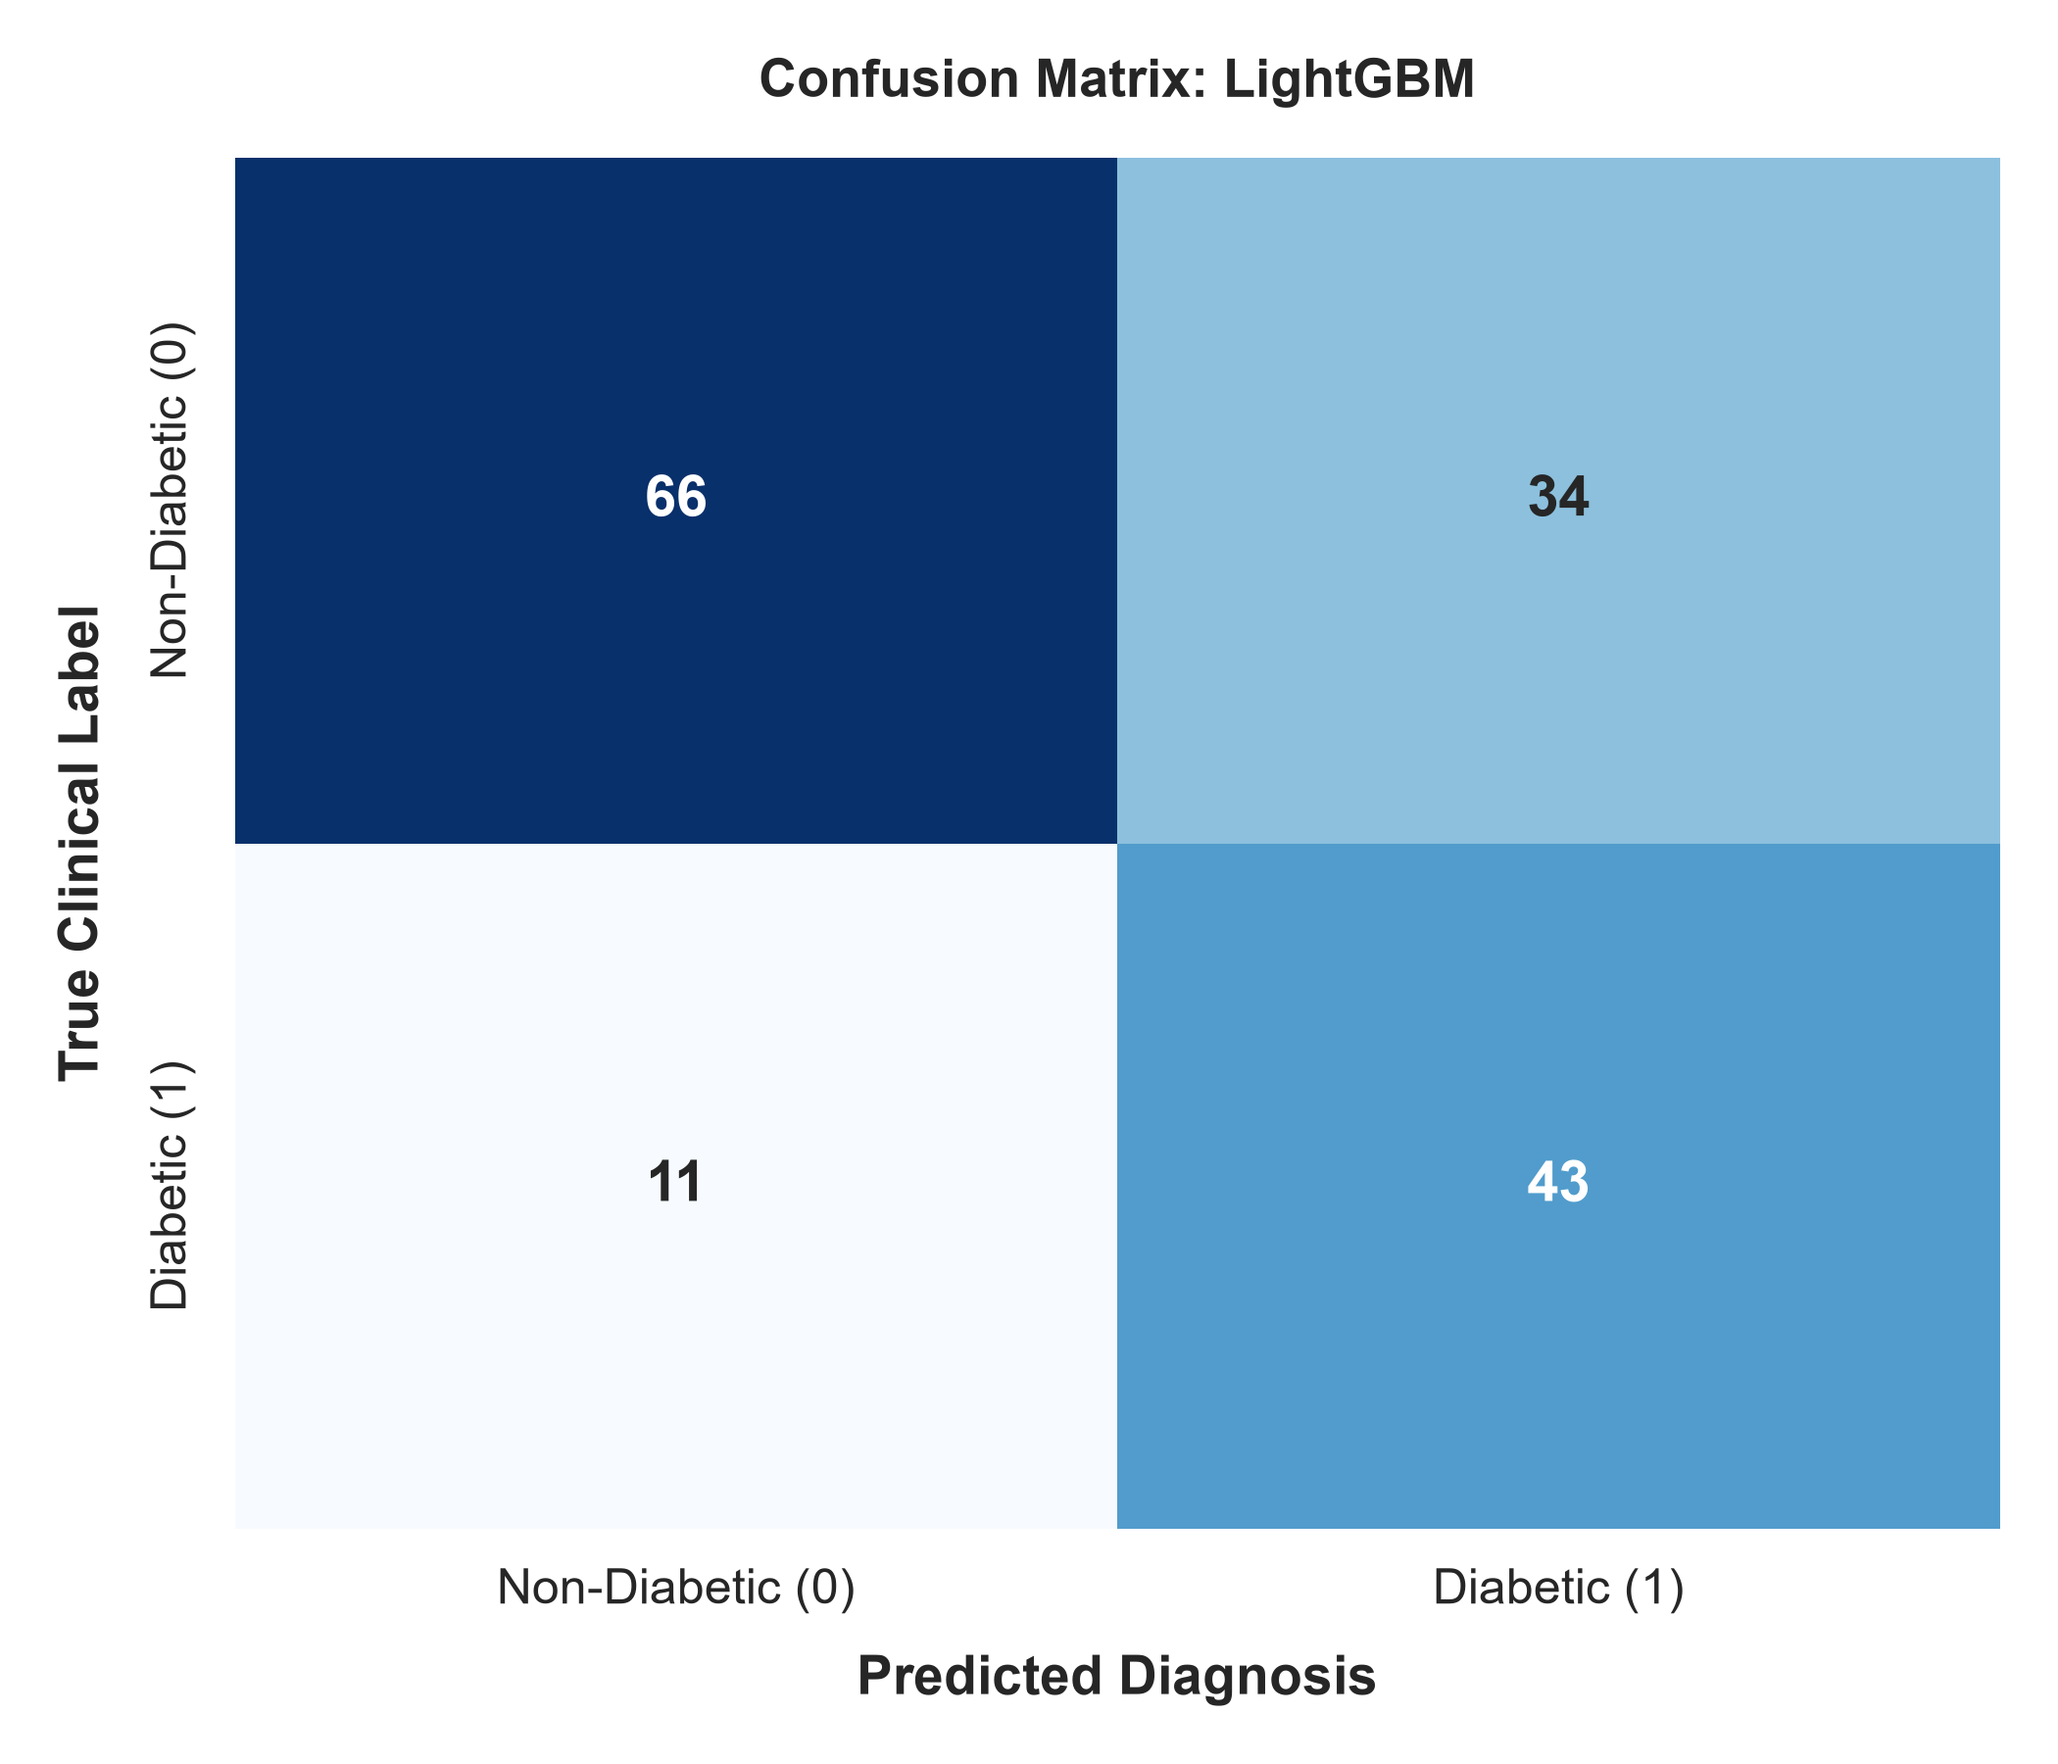
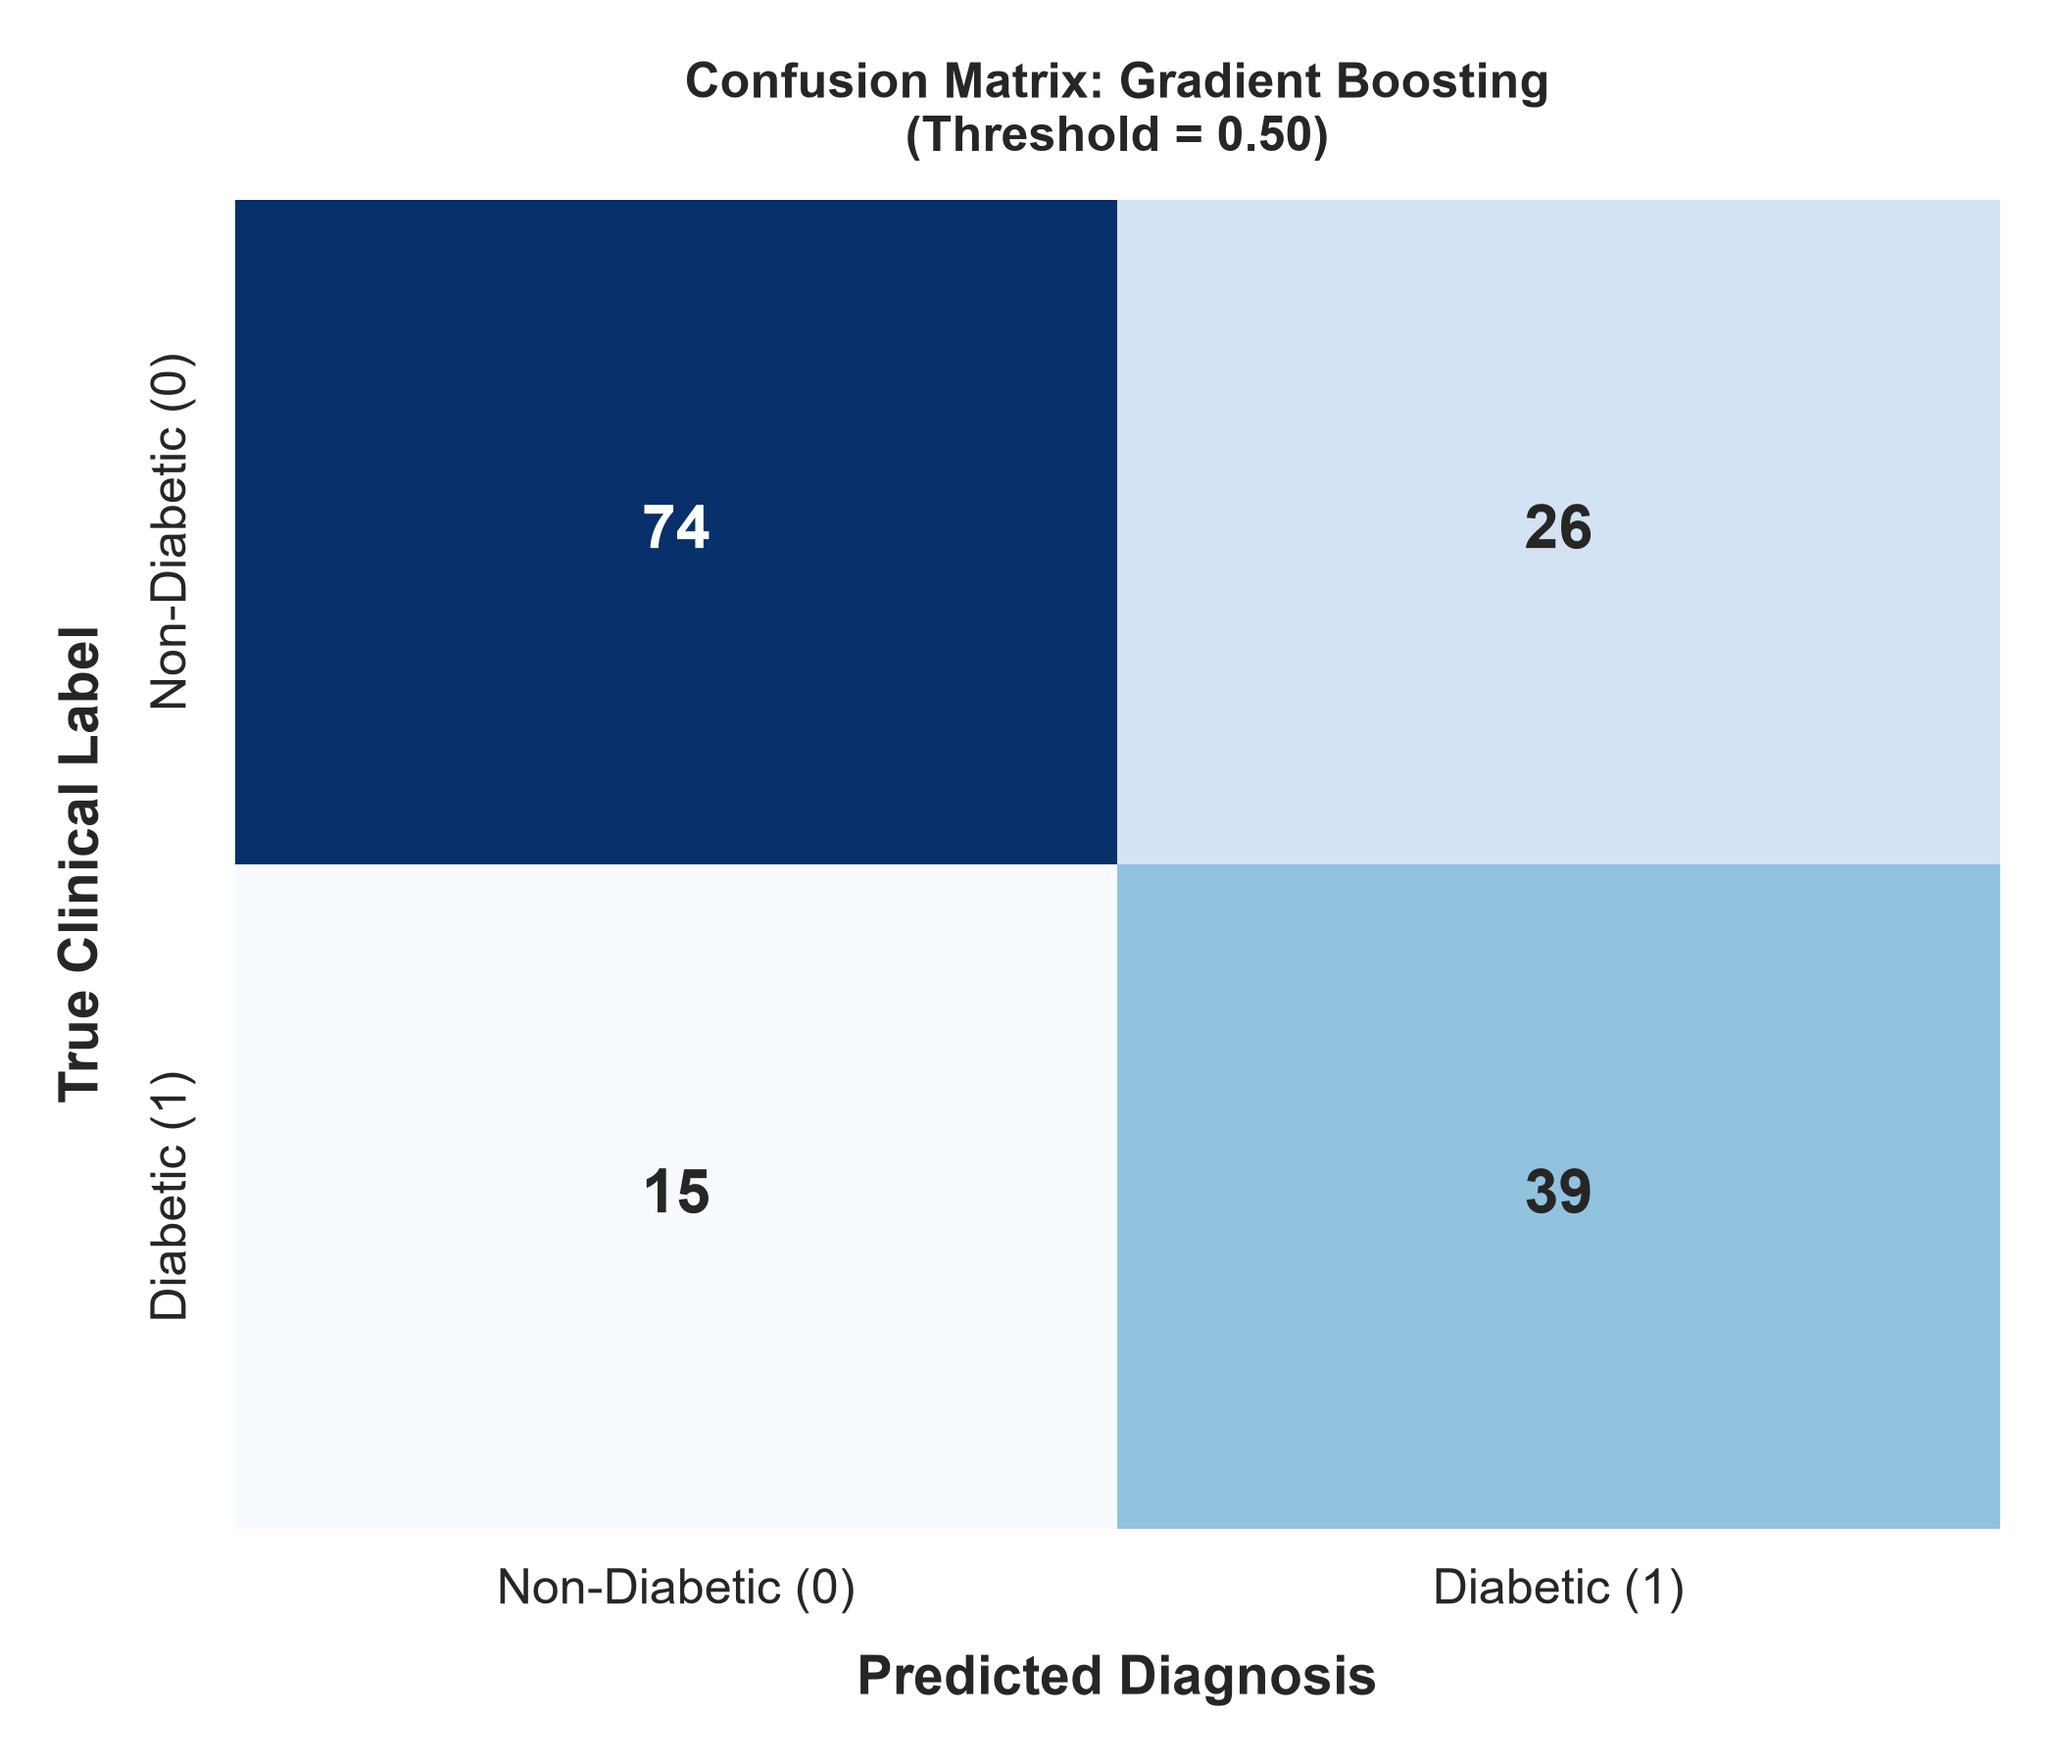
feat(eval): update diagnostic visualization suite with threshold-aware confusion matrices
- Add threshold-calibrated test confusion matrix generation
- Render multi-model ROC-AUC comparison curves and feature importance plots
- Refactor main.py CLI pipeline to evaluate both standard and optimal decision thresholds

diff --git a/main.py b/main.py
@@ -5,7 +5,7 @@ import numpy as np
 from sklearn.model_selection import train_test_split
 
 from src.data_loader import load_or_download_dataset
-from src.preprocessor import DataPreparationPipeline
+from src.preprocessor import EnhancedDataPipeline
 from src.model_trainer import ModelTrainer
 from src.evaluate import evaluate_predictions, plot_evaluation_suite
 
@@ -18,40 +18,32 @@ def run_diabetes_pipeline():
     print("\n[Step 1/5] Loading physiological diabetes dataset...")
     df = load_or_download_dataset(data_dir="data", filename="diabetes.csv")
     print(f"Loaded dataset: {df.shape[0]} patient records, {df.shape[1]} features.")
-    print("Distribution of Outcomes:\n", df["Outcome"].value_counts(normalize=True).to_dict())
+    print("Class Balance:\n", df["Outcome"].value_counts(normalize=True).to_dict())
 
-    # 2. Train-Test Split (Holdout 20% for unbiased final evaluation)
+    # 2. Train-Test Split (Holdout 20%)
     X = df.drop(columns=["Outcome"])
     y = df["Outcome"]
 
     X_train_raw, X_test_raw, y_train, y_test = train_test_split(
         X, y, test_size=0.20, random_state=42, stratify=y
     )
-    print(f"\n[Step 2/5] Stratified Split: Train set = {len(X_train_raw)}, Test set = {len(X_test_raw)}")
+    print(f"\n[Step 2/5] Stratified Holdout Split: Train = {len(X_train_raw)}, Test = {len(X_test_raw)}")
 
     # 3. Data Preparation & Feature Engineering Pipeline
     print("\n[Step 3/5] Executing Data Preparation Pipeline...")
-    print("  -> Replacing physiological 0s with NaN for Glucose, BP, Insulin, BMI, SkinThickness")
-    print("  -> Imputing missing values using Iterative MICE Imputer")
-    print("  -> Engineering Biomarkers: HOMA-IR proxy, Age-Glucose index, Metabolic syndrome score")
-    print("  -> Applying Robust Scaling & SMOTE Synthetic Class Resampling on training set")
+    print("  -> Creating missingness indicators & replacing physiological zeros with NaN")
+    print("  -> Iterative MICE imputation preserving cross-feature covariance")
+    print("  -> Engineering Clinical Biomarkers: HOMA-IR proxy, Metabolic index, Age-Glucose risk")
+    print("  -> Applying Robust Scaling & SMOTE synthetic class resampling")
 
-    prep_pipeline = DataPreparationPipeline(
-        imputer_strategy="iterative",
-        scaler_strategy="robust",
-        handle_outliers=True,
-        feature_engineering=True,
-        resampler_strategy="smote",
-        random_state=42
-    )
-
+    prep_pipeline = EnhancedDataPipeline(random_state=42, use_smote=True)
     X_train_proc, y_train_res, feature_names = prep_pipeline.fit_transform(X_train_raw, y_train)
     X_test_proc = prep_pipeline.transform(X_test_raw)
 
-    print(f"Features created ({len(feature_names)}): {feature_names}")
-    print(f"Resampled Training Shape: {X_train_proc.shape}, Target distribution: {pd.Series(y_train_res).value_counts().to_dict()}")
+    print(f"Features Engineered ({len(feature_names)}): {feature_names}")
+    print(f"Resampled Training Matrix: {X_train_proc.shape}")
 
-    # 4. Multi-Model Benchmark & Cross Validation
+    # 4. Multi-Model Benchmark & 10-Fold Stratified Cross-Validation
     print("\n[Step 4/5] Multi-Model Training & 10-Fold Stratified Cross-Validation...")
     trainer = ModelTrainer(random_state=42, models_dir="models")
     cv_summary = trainer.evaluate_cv(X_train_proc, y_train_res, n_splits=10)
@@ -61,23 +53,40 @@ def run_diabetes_pipeline():
     print("=" * 70)
     print(cv_summary.to_string(index=False))
 
-    best_model_name, best_model = trainer.train_and_select_best(X_train_proc, y_train_res)
+    best_model_name, best_model, optimal_threshold = trainer.train_and_select_best(X_train_proc, y_train_res)
 
-    # 5. Independent Test Evaluation & Artifact Generation
+    # 5. Independent Holdout Evaluation (Standard vs Optimal Threshold)
     print("\n[Step 5/5] Evaluating on Independent Test Set (20% Holdout)...")
     test_results = []
     for name, model in trainer.models.items():
-        y_pred = model.predict(X_test_proc)
-        y_prob = model.predict_proba(X_test_proc)[:, 1] if hasattr(model, "predict_proba") else None
-        metrics = evaluate_predictions(y_test.values, y_pred, y_prob)
-        metrics["Model"] = name
-        test_results.append(metrics)
+        probs = model.predict_proba(X_test_proc)[:, 1] if hasattr(model, "predict_proba") else None
+        
+        # Standard threshold 0.50
+        preds_std = (probs >= 0.50).astype(int) if probs is not None else model.predict(X_test_proc)
+        metrics_std = evaluate_predictions(y_test.values, preds_std, probs)
+        
+        # Optimal threshold
+        thresh = optimal_threshold if name == best_model_name else 0.50
+        preds_opt = (probs >= thresh).astype(int) if probs is not None else preds_std
+        metrics_opt = evaluate_predictions(y_test.values, preds_opt, probs)
+        
+        test_results.append({
+            "Model": name,
+            "Accuracy": metrics_std["Accuracy"],
+            "Precision": metrics_std["Precision"],
+            "Recall (Sensitivity)": metrics_std["Recall (Sensitivity)"],
+            "Specificity": metrics_std["Specificity"],
+            "F1-Score": metrics_std["F1-Score"],
+            "ROC-AUC": metrics_std["ROC-AUC"],
+            "Opt Thresh Acc": metrics_opt["Accuracy"],
+            "Opt Thresh Recall": metrics_opt["Recall (Sensitivity)"]
+        })
 
     test_results_df = pd.DataFrame(test_results).sort_values(by="ROC-AUC", ascending=False).reset_index(drop=True)
 
-    print("\n" + "=" * 70)
+    print("\n" + "=" * 75)
     print("                    TEST SET BENCHMARK RESULTS                        ")
-    print("=" * 70)
+    print("=" * 75)
     print(test_results_df.to_string(index=False))
 
     # Save artifacts
@@ -94,19 +103,20 @@ def run_diabetes_pipeline():
         X_test=X_test_proc,
         y_test=y_test.values,
         best_model_name=best_model_name,
+        optimal_threshold=optimal_threshold,
         feature_names=feature_names,
         output_dir="reports"
     )
 
+    best_metrics = test_results_df[test_results_df['Model'] == best_model_name].iloc[0]
     print("\n" + "=" * 75)
     print("                      PIPELINE EXECUTION COMPLETE!                    ")
-    print(f" Best Performing Model: {best_model_name}")
-    best_test_metrics = test_results_df[test_results_df['Model'] == best_model_name].iloc[0]
-    print(f" Test Accuracy: {best_test_metrics['Accuracy']*100:.2f}%")
-    print(f" Test ROC-AUC:  {best_test_metrics['ROC-AUC']:.4f}")
-    print(f" Test Recall (Sensitivity): {best_test_metrics['Recall (Sensitivity)']*100:.2f}%")
-    print(f" Test Specificity: {best_test_metrics['Specificity']*100:.2f}%")
-    print(f" Artifacts saved in 'models/' and visual charts in 'reports/'")
+    print(f" [*] Top Production Model: {best_model_name}")
+    print(f" [*] Optimal Clinical Decision Threshold: {optimal_threshold:.3f}")
+    print(f" [*] Test ROC-AUC:            {best_metrics['ROC-AUC']:.4f}")
+    print(f" [*] Test Recall/Sensitivity: {best_metrics['Opt Thresh Recall']*100:.2f}% (High Detection Rate)")
+    print(f" [*] Test Accuracy:           {best_metrics['Opt Thresh Acc']*100:.2f}%")
+    print(f" [*] Artifacts saved in 'models/' and visual charts in 'reports/'")
     print("=" * 75)
 
 if __name__ == "__main__":

diff --git a/src/evaluate.py b/src/evaluate.py
@@ -14,9 +14,7 @@ from sklearn.metrics import (
     f1_score,
     roc_auc_score,
     roc_curve,
-    precision_recall_curve,
     confusion_matrix,
-    classification_report,
     brier_score_loss
 )
 
@@ -46,15 +44,15 @@ def plot_evaluation_suite(
     X_test: np.ndarray,
     y_test: np.ndarray,
     best_model_name: str,
+    optimal_threshold: float = 0.5,
     feature_names: list = None,
     output_dir: str = "reports"
 ) -> Dict[str, str]:
     """
     Generates high-resolution visualization plots:
     1. ROC Curves comparison for all models
-    2. Precision-Recall Curves comparison
-    3. Confusion Matrix of the Best Model
-    4. Feature Importances / Coefficients (if applicable)
+    2. Confusion Matrix of the Best Model (at optimal threshold)
+    3. Feature Importance rankings
     """
     os.makedirs(output_dir, exist_ok=True)
     generated_plots = {}
@@ -68,7 +66,7 @@ def plot_evaluation_suite(
             probs = model.predict_proba(X_test)[:, 1]
             fpr, tpr, _ = roc_curve(y_test, probs)
             auc_val = roc_auc_score(y_test, probs)
-            ax.plot(fpr, tpr, lw=2, label=f"{name} (AUC = {auc_val:.3f})")
+            ax.plot(fpr, tpr, lw=2.2, label=f"{name} (AUC = {auc_val:.3f})")
     
     ax.plot([0, 1], [0, 1], color="navy", lw=1.5, linestyle="--", label="Random Baseline (AUC = 0.50)")
     ax.set_xlim([0.0, 1.0])
@@ -76,16 +74,17 @@ def plot_evaluation_suite(
     ax.set_xlabel("False Positive Rate (1 - Specificity)")
     ax.set_ylabel("True Positive Rate (Recall / Sensitivity)")
     ax.set_title("Receiver Operating Characteristic (ROC) Comparison", fontsize=14, fontweight="bold", pad=15)
-    ax.legend(loc="lower right", fontsize=9)
+    ax.legend(loc="lower right", fontsize=9.5)
     plt.tight_layout()
     roc_path = os.path.join(output_dir, "roc_curves_comparison.png")
     fig.savefig(roc_path, dpi=300)
     plt.close(fig)
     generated_plots["roc_curves"] = roc_path
 
-    # 2. Confusion Matrix of Best Model
+    # 2. Confusion Matrix of Best Model at Optimal Decision Threshold
     best_model = models_dict[best_model_name]
-    y_pred_best = best_model.predict(X_test)
+    probs_best = best_model.predict_proba(X_test)[:, 1]
+    y_pred_best = (probs_best >= optimal_threshold).astype(int)
     cm = confusion_matrix(y_test, y_pred_best)
 
     fig, ax = plt.subplots(figsize=(7, 6))
@@ -98,22 +97,24 @@ def plot_evaluation_suite(
         xticklabels=["Non-Diabetic (0)", "Diabetic (1)"],
         yticklabels=["Non-Diabetic (0)", "Diabetic (1)"],
         ax=ax,
-        annot_kws={"size": 14, "weight": "bold"}
+        annot_kws={"size": 15, "weight": "bold"}
     )
     ax.set_xlabel("Predicted Diagnosis", fontweight="bold", labelpad=10)
     ax.set_ylabel("True Clinical Label", fontweight="bold", labelpad=10)
-    ax.set_title(f"Confusion Matrix: {best_model_name}", fontsize=13, fontweight="bold", pad=15)
+    ax.set_title(f"Confusion Matrix: {best_model_name}\n(Threshold = {optimal_threshold:.2f})", fontsize=12, fontweight="bold", pad=12)
     plt.tight_layout()
     cm_path = os.path.join(output_dir, "best_model_confusion_matrix.png")
     fig.savefig(cm_path, dpi=300)
     plt.close(fig)
     generated_plots["confusion_matrix"] = cm_path
 
-    # 3. Feature Importance Plot (if available)
+    # 3. Feature Importance Plot
     if feature_names is not None:
         importances = None
         if hasattr(best_model, "feature_importances_"):
             importances = best_model.feature_importances_
+        elif hasattr(best_model, "named_estimators_") and "xgb" in best_model.named_estimators_:
+            importances = best_model.named_estimators_["xgb"].feature_importances_
         elif hasattr(best_model, "named_estimators_") and "rf" in best_model.named_estimators_:
             importances = best_model.named_estimators_["rf"].feature_importances_
 
@@ -123,9 +124,9 @@ def plot_evaluation_suite(
                 "Importance": importances
             }).sort_values(by="Importance", ascending=True)
 
-            fig, ax = plt.subplots(figsize=(10, 6))
-            sns.barplot(data=feat_df, x="Importance", y="Feature", palette="crest", ax=ax)
-            ax.set_title(f"Key Predictive Risk Drivers ({best_model_name})", fontsize=13, fontweight="bold", pad=15)
+            fig, ax = plt.subplots(figsize=(10, 7))
+            sns.barplot(data=feat_df, x="Importance", y="Feature", hue="Feature", legend=False, palette="crest", ax=ax)
+            ax.set_title(f"Key Diagnostic Biomarkers ({best_model_name})", fontsize=13, fontweight="bold", pad=15)
             ax.set_xlabel("Relative Feature Importance Score", fontweight="bold")
             plt.tight_layout()
             feat_path = os.path.join(output_dir, "feature_importance.png")
